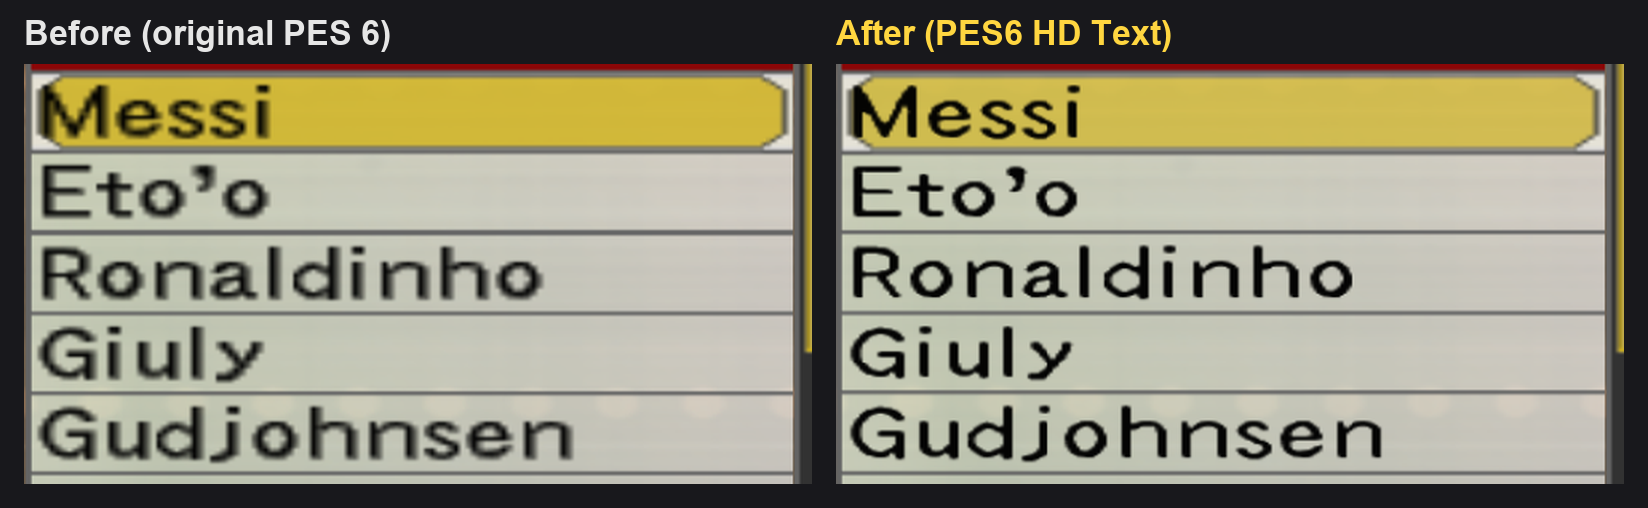
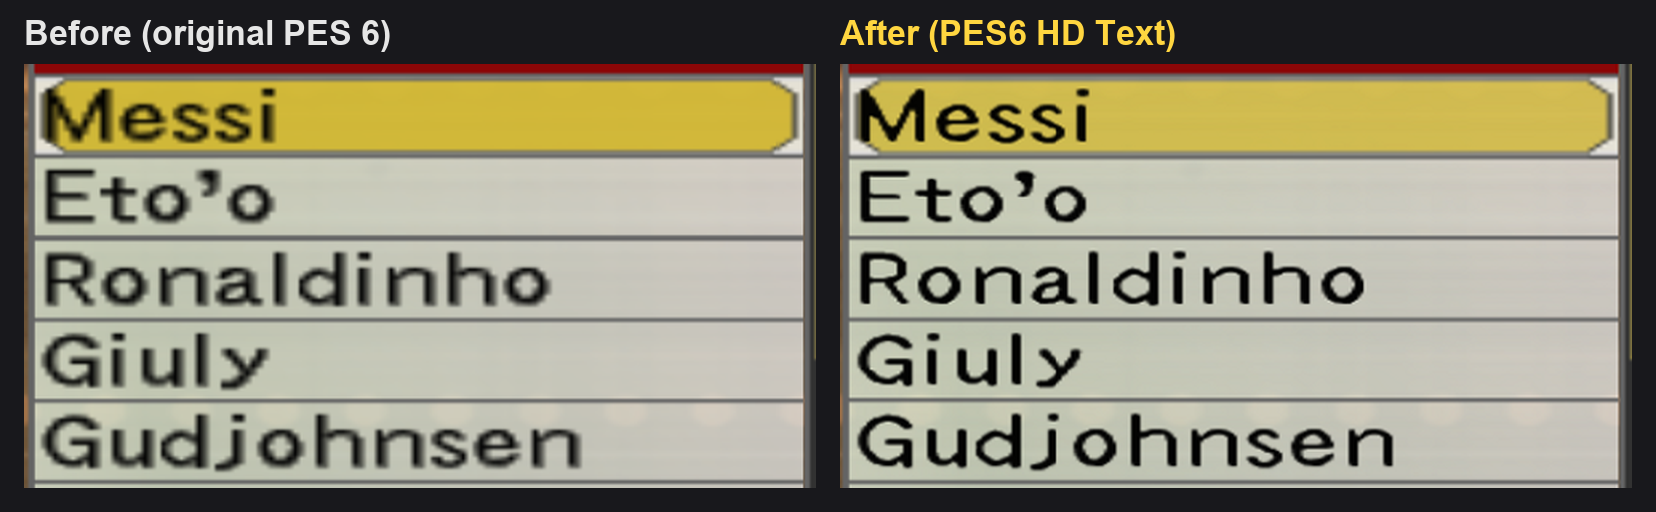
Galería de zooms antes y después y otros proyectos del autor
Ocho zooms (4 del PES 6 original y 4 del Den Patch) arriba de las
capturas completas; el zoom principal se rehízo reescalando la captura
con el mod, no la original. Suma wepes3d a los proyectos del autor.

Changed region(s): [[0.0, 0.1181, 0.9903, 0.9744], [0.0309, 0.0295, 0.2476, 0.0886], [0.5261, 0.0295, 0.7118, 0.0886]]

diff --git a/README.md b/README.md
@@ -12,7 +12,31 @@ A Kitserver 6 module for Pro Evolution Soccer 6 (PC) by **pitycharly**. Version 
 
 *Zoomed crop of the Edit Player screen: same game, same screen, left without the mod and right with it.*
 
-### Original PES 6
+### Zoomed comparisons
+
+Same zone of the same screen, before and after. The "after" capture is the one rescaled to line them up, so the comparison never favours the mod.
+
+**Original PES 6**
+
+![Pause menu, zoomed: before and after](images/zoom/original-pause-menu.png)
+
+![Edit menu, zoomed: before and after](images/zoom/original-edit-menu.png)
+
+![Match settings, zoomed: before and after](images/zoom/original-match-settings.png)
+
+![Line-up, zoomed: before and after](images/zoom/original-lineup.png)
+
+**PES 6 The Den Patch 2026 (its own font)**
+
+![The Den Patch, match settings, zoomed: before and after](images/zoom/den-match-settings.png)
+
+![The Den Patch, edit menu, zoomed: before and after](images/zoom/den-edit-menu.png)
+
+![The Den Patch, line-up, zoomed: before and after](images/zoom/den-lineup.png)
+
+![The Den Patch, pause menu, zoomed: before and after](images/zoom/den-pause-menu.png)
+
+### Full screens: original PES 6
 
 **Edit player**
 
@@ -55,7 +79,7 @@ A Kitserver 6 module for Pro Evolution Soccer 6 (PC) by **pitycharly**. Version 
 
 </details>
 
-### PES 6 The Den Patch 2026 (its own font)
+### Full screens: PES 6 The Den Patch 2026
 
 <details>
 <summary><b>Screens: The Den Patch 2026</b> (match settings, edit menu, line-up, pause menu)</summary>
@@ -167,11 +191,10 @@ Found a screen where the text is still blurry? Open an [issue](https://github.co
 
 I'm **pitycharly**, an Argentine software developer who makes mods for PES 6. I want to help keep this game alive, and I'd love to see my mods inside the patches people already play. I build them as Kitserver modules and keep them compatible with all the existing ones.
 
-My other mod:
+My other projects:
 
-- **[Change Physics Game](https://github.com/angelballay/pes6_game_physics_mod)** (v1.1): first-time passes no longer die on the pitch. A faster pass impulse makes the ball roll faster and more smoothly. [Video](https://www.youtube.com/watch?v=KKfPKn4rNsg) · [Download](https://www.mediafire.com/file/fwqcw1omr98uekw/1.1_pes6_game_physics_mod.zip/file)
-
-Both mods are tested on the original PES 6 and on PES 6 The Den Patch 2026.
+- **[Change Physics Game](https://github.com/angelballay/pes6_game_physics_mod)** (v1.1): first-time passes no longer die on the pitch. A faster pass impulse makes the ball roll faster and more smoothly. Tested on the original PES 6 and on PES 6 The Den Patch 2026. [Video](https://www.youtube.com/watch?v=KKfPKn4rNsg) · [Download](https://www.mediafire.com/file/fwqcw1omr98uekw/1.1_pes6_game_physics_mod.zip/file)
+- **[wepes3d](https://github.com/angelballay/wepes3d)**: import new 3D models into PES / Winning Eleven on PS2 (trophies, faces, hair). An .obj (Blender) ↔ .bin converter that also exports PES6 PC models to bring them to the PS2. Pure Python.
 
 ---
 
@@ -196,4 +219,4 @@ Los menús, los nombres de jugadores y de equipos y los títulos se ven nítidos
 
 ¿Una pantalla donde el texto se sigue viendo borroso? Abrí un [issue](https://github.com/angelballay/pes6-hd-text/issues) con una captura.
 
-Soy **pitycharly**, desarrollador de software argentino, y hago mods para PES 6 para mantenerlo vivo. Mi otro mod: **[Change Physics Game](https://github.com/angelballay/pes6_game_physics_mod)**, para que los pases al primer toque no se mueran ([video](https://www.youtube.com/watch?v=KKfPKn4rNsg)).
+Soy **pitycharly**, desarrollador de software argentino, y hago mods para PES 6 para mantenerlo vivo. Mis otros proyectos: **[Change Physics Game](https://github.com/angelballay/pes6_game_physics_mod)**, para que los pases al primer toque no se mueran ([video](https://www.youtube.com/watch?v=KKfPKn4rNsg)), y **[wepes3d](https://github.com/angelballay/wepes3d)**, para importar modelos 3D (trofeos, caras, pelo) a PES / Winning Eleven de PS2.
